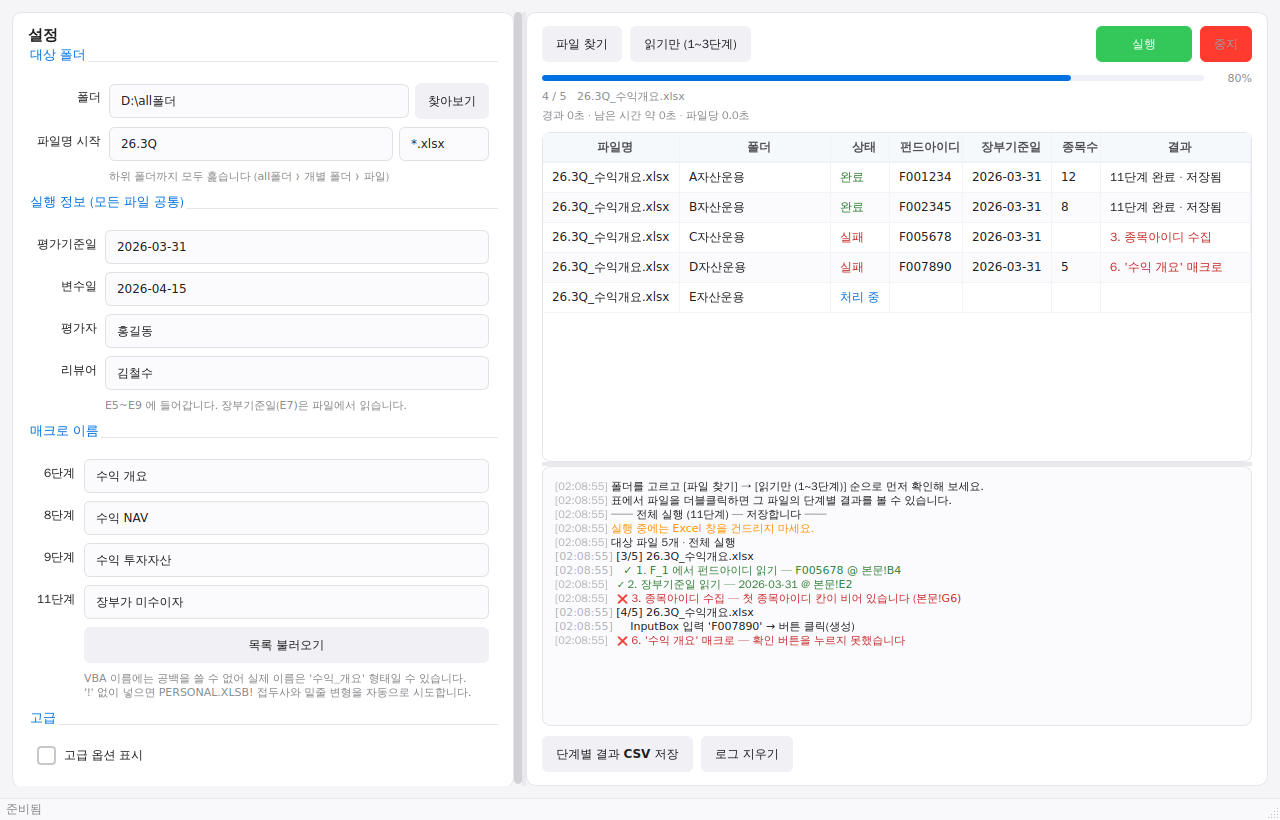
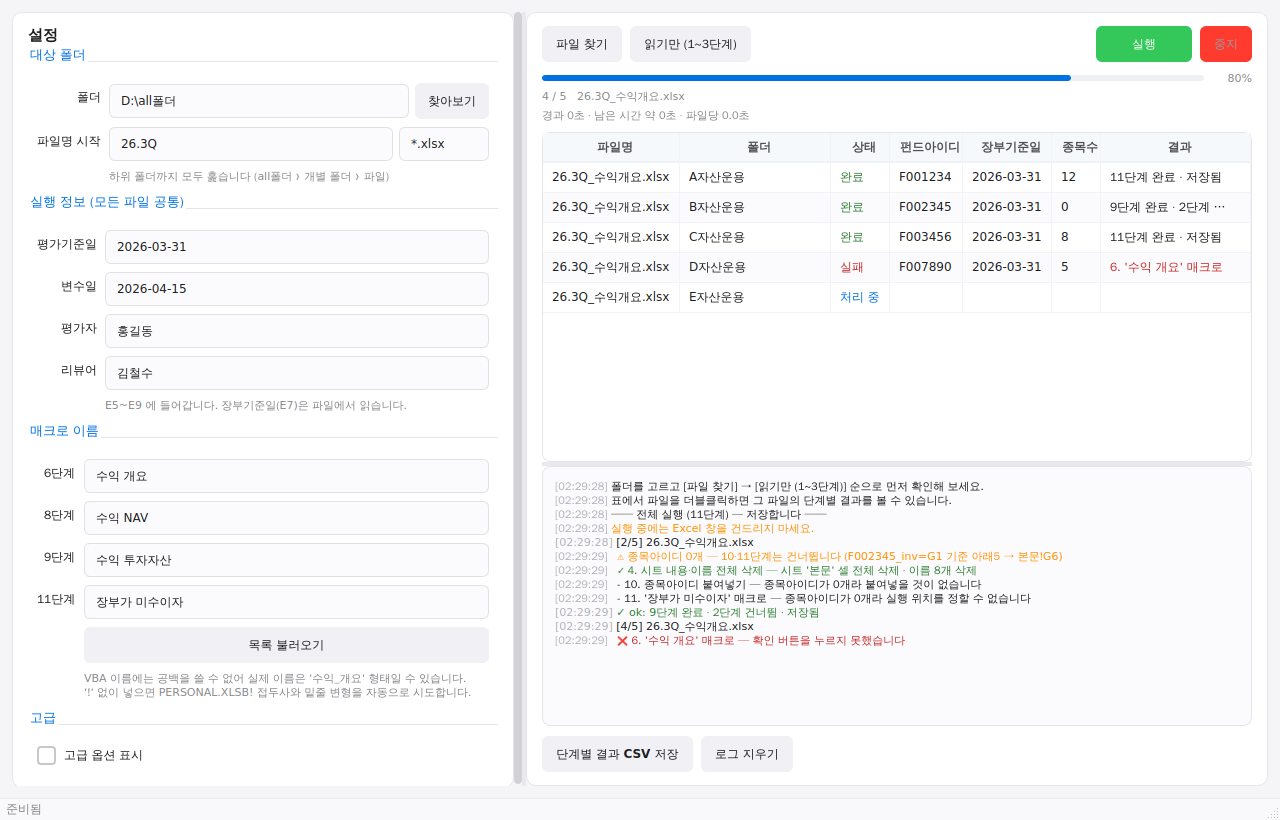
Correct step 4 deletion mode and handle funds with no holdings
사용자 확인에 따라 두 가지 동작을 수정했습니다.

4단계 시트 비우기
- Cells.Clear() → Cells.Delete(xlShiftUp) 로 변경.
  Ctrl+A > 마우스 오른쪽 > 삭제 와 동일하게 셀 자체를 없애므로
  병합·조건부서식·유효성검사까지 정리된다.
- 값과 서식만 지우는 기존 방식이 필요할 때를 위해 clear_mode 설정을
  남기고 고급 화면에서 고를 수 있게 했다.

종목아이디가 0개인 펀드
- 3단계 실패로 막던 것을 정상 처리로 바꿨다. 0개로 기록하고
  10(붙여넣기)·11(장부가 미수이자)단계만 건너뛴 뒤 나머지는 그대로
  진행해 저장한다. 수익 개요·NAV·투자자산 보고서는 생성된다.
- 이를 위해 StepSkip 을 추가했다. StepError 와 달리 이후 단계를
  중단시키지 않고 해당 단계만 skipped 로 기록한다.
  ALT_ITEMS 시트가 없는 경우도 같은 방식으로 정리했다.
- 결과 요약이 '9단계 완료 · 2단계 건너뜀 · 저장됨' 처럼 건너뛴 단계 수를
  함께 보여준다.

표 표시
- 종목수 열이 3단계를 통과한 파일에만 숫자를 넣도록 해 '0개'와
  '아직 못 읽음'을 구분한다. 결과 열에는 잘린 내용을 볼 수 있게 툴팁을 달았다.

Claude-Session: https://claude.ai/code/session_01E78XxqM2EBbeWrSFbjGD1Q

diff --git a/Excel_Macro_Bot/fund_pipeline.py b/Excel_Macro_Bot/fund_pipeline.py
@@ -37,6 +37,7 @@ else:
 
 XL_DOWN = -4121
 XL_SHEET_VISIBLE = -1
+XL_SHIFT_UP = -4162
 
 #: 이 행 아래로는 데이터가 아니라 빈 시트로 본다 (End(xlDown) 폭주 방지)
 MAX_DATA_ROW = 1_000_000
@@ -46,7 +47,15 @@ READONLY_STEPS = 3
 
 
 class StepError(Exception):
-    """단계 실패. 메시지가 그대로 사용자에게 보고된다."""
+    """단계 실패. 메시지가 그대로 사용자에게 보고되고 이후 단계는 중단된다."""
+
+
+class StepSkip(Exception):
+    """할 일이 없어 건너뛴다. 실패가 아니므로 다음 단계로 계속 진행한다.
+
+    예) 종목아이디가 0개인 펀드 → 붙여넣기(10)와 미수이자(11)는 건너뛰지만
+        수익 개요·NAV·투자자산 보고서는 그대로 만들고 저장한다.
+    """
 
 
 @dataclass
@@ -77,6 +86,9 @@ class PipelineConfig:
     inv_first_row_offset: int = 5               # _inv 아래 5번째가 첫 종목
 
     alt_sheet: str = "ALT_ITEMS"
+    #: delete = Ctrl+A → 우클릭 → 삭제 (셀 자체를 삭제)
+    #: clear  = 내용과 서식만 지우고 셀은 그대로 둠
+    clear_mode: str = "delete"
 
     overview_cell: str = "B2"
     header_cell: str = "E5"                     # E5:E9 로 5칸 사용
@@ -118,6 +130,11 @@ class FileResult:
     steps: List[StepResult] = field(default_factory=list)
 
     @property
+    def items_counted(self) -> bool:
+        """3단계까지 갔는지. 0개와 '아직 못 읽음'을 구분하려고 쓴다."""
+        return any(s.number == 3 and s.status == "ok" for s in self.steps)
+
+    @property
     def failed_step(self) -> str:
         for step in self.steps:
             if step.status == "failed":
@@ -130,7 +147,12 @@ class FileResult:
             if step.status == "failed":
                 return f"[{step.label}] {step.detail}"
         done = sum(1 for s in self.steps if s.status == "ok")
-        return f"{done}단계 완료" + (" · 저장됨" if self.saved else " · 저장 안 함")
+        skipped = sum(1 for s in self.steps if s.status == "skipped")
+        parts = [f"{done}단계 완료"]
+        if skipped:
+            parts.append(f"{skipped}단계 건너뜀")
+        parts.append("저장됨" if self.saved else "저장 안 함")
+        return " · ".join(parts)
 
 
 # ── 셀 값 도우미 ────────────────────────────────────
@@ -283,6 +305,10 @@ class WorkbookPipeline:
                 elapsed = time.monotonic() - started
                 self.result.steps.append(StepResult(number, name, "ok", detail, elapsed))
                 self.log.debug(f"✓ {number}. {name}" + (f" — {detail}" if detail else ""), indent=1)
+            except StepSkip as exc:
+                elapsed = time.monotonic() - started
+                self.result.steps.append(StepResult(number, name, "skipped", str(exc), elapsed))
+                self.log(f"- {number}. {name} — {exc}", indent=1)
             except StepError as exc:
                 elapsed = time.monotonic() - started
                 self.result.steps.append(StepResult(number, name, "failed", str(exc), elapsed))
@@ -380,12 +406,15 @@ class WorkbookPipeline:
         sheet = anchor.Worksheet
         first = anchor.Offset(self.cfg.inv_first_row_offset, 0)
 
+        where = f"{target}={address(anchor)} 기준 아래{self.cfg.inv_first_row_offset} " \
+                f"→ {sheet.Name}!{address(first)}"
+
+        # 종목이 하나도 없는 펀드도 있다. 실패가 아니라 0개로 보고,
+        # 붙여넣기(10)와 미수이자(11)만 건너뛴다.
         if is_blank(first):
-            raise StepError(
-                f"첫 종목아이디 칸이 비어 있습니다 "
-                f"({target}={address(anchor)} 기준 아래{self.cfg.inv_first_row_offset} "
-                f"→ {sheet.Name}!{address(first)})"
-            )
+            self.items = []
+            self.log(f"⚠ 종목아이디 0개 — 10·11단계는 건너뜁니다 ({where})", indent=1)
+            return f"0개 ({where} 비어 있음)"
 
         # Ctrl+↓ 와 같은 동작. 바로 아래가 비어 있으면 항목이 하나뿐이다.
         if is_blank(first.Offset(1, 0)):
@@ -410,7 +439,14 @@ class WorkbookPipeline:
 
     # ── 4~5 단계: 정리 ───────────────────────────
     def step_clear(self) -> str:
-        self.sheet.Cells.Clear()
+        if self.cfg.clear_mode == "clear":
+            self.sheet.Cells.Clear()
+            how = "내용·서식 지움"
+        else:
+            # Ctrl+A → 마우스 오른쪽 → 삭제 와 같은 동작.
+            # Clear 와 달리 셀 자체를 없애므로 병합·조건부서식·유효성검사까지 사라진다.
+            self.sheet.Cells.Delete(XL_SHIFT_UP)
+            how = "셀 전체 삭제"
 
         deleted, kept = 0, []
         for item in list(self.book.Names):
@@ -424,7 +460,7 @@ class WorkbookPipeline:
             except com_error:
                 kept.append(label)      # Print_Area 같은 내장 이름은 지워지지 않을 수 있다
 
-        detail = f"시트 '{self.sheet.Name}' 비움 · 이름 {deleted}개 삭제"
+        detail = f"시트 '{self.sheet.Name}' {how} · 이름 {deleted}개 삭제"
         if kept:
             detail += f" (삭제 안 됨 {len(kept)}개: {', '.join(kept[:3])})"
         return detail
@@ -442,7 +478,7 @@ class WorkbookPipeline:
             finally:
                 self.xl.DisplayAlerts = True
             return f"'{self.cfg.alt_sheet}' 삭제"
-        return f"'{self.cfg.alt_sheet}' 시트가 없어 건너뜀"
+        raise StepSkip(f"'{self.cfg.alt_sheet}' 시트가 없습니다")
 
     # ── 6~11 단계: 생성 ──────────────────────────
     def step_overview(self) -> str:
@@ -472,6 +508,9 @@ class WorkbookPipeline:
         return self._run_macro(self.cfg.macro_inv, self.cfg.inv_cell)
 
     def step_paste_items(self) -> str:
+        if not self.items:
+            raise StepSkip("종목아이디가 0개라 붙여넣을 것이 없습니다")
+
         start = self.sheet.Range(self.cfg.items_cell)
         count = len(self.items)
         dest = self.sheet.Range(start, start.Offset(count - 1, 0))
@@ -483,6 +522,12 @@ class WorkbookPipeline:
         return f"{count}개 → {address(dest)}"
 
     def step_interest(self) -> str:
+        if not self.items:
+            raise StepSkip(
+                "종목아이디가 0개라 실행 위치(마지막 종목 아래 "
+                f"{self.cfg.interest_row_offset}칸)를 정할 수 없습니다"
+            )
+
         start = self.sheet.Range(self.cfg.items_cell)
         last = start.Offset(len(self.items) - 1, 0)
         target = last.Offset(self.cfg.interest_row_offset, 0)

diff --git a/Excel_Macro_Bot/gui/window.py b/Excel_Macro_Bot/gui/window.py
@@ -258,6 +258,15 @@ class MainWindow(QMainWindow):
         self.alt_sheet.setObjectName("alt_sheet")
         form.addRow("삭제할 시트", self.alt_sheet)
 
+        self.clear_mode = QComboBox()
+        self.clear_mode.setObjectName("clear_mode")
+        self.clear_mode.addItems(["셀 전체 삭제 (Ctrl+A → 삭제)", "내용·서식만 지우기"])
+        self.clear_mode.setToolTip(
+            "셀 전체 삭제는 병합·조건부서식·유효성검사까지 없앱니다. "
+            "내용·서식만 지우기는 셀을 그대로 두고 값과 서식만 비웁니다."
+        )
+        form.addRow("4단계 방식", self.clear_mode)
+
         # 위치 — 쓰기
         self.overview_cell = self._cell("overview_cell", default.overview_cell)
         self.header_cell = self._cell("header_cell", default.header_cell)
@@ -637,11 +646,13 @@ class MainWindow(QMainWindow):
             self._set_status(row, result.status)
             summary = result.failed_step or result.detail
             for column, text in ((3, result.fund_id), (4, result.book_date),
-                                 (5, str(result.item_count) if result.item_count else ""),
+                                 (5, str(result.item_count) if result.items_counted else ""),
                                  (6, summary)):
                 item = QTableWidgetItem(text)
-                if column == 6 and result.status == "failed":
-                    item.setForeground(QColor(STATUS_COLORS["failed"]))
+                if column == 6:
+                    item.setToolTip(result.detail)      # 잘린 내용을 마우스로 확인
+                    if result.status == "failed":
+                        item.setForeground(QColor(STATUS_COLORS["failed"]))
                 self.table.setItem(row, column, item)
         self.progress.advance(index, total, result.path.name)
 
@@ -732,6 +743,7 @@ class MainWindow(QMainWindow):
             inv_suffix=self.inv_suffix.text().strip() or "_inv",
             inv_first_row_offset=self.inv_first.value(),
             alt_sheet=self.alt_sheet.text().strip(),
+            clear_mode="delete" if self.clear_mode.currentIndex() == 0 else "clear",
             overview_cell=self.overview_cell.text().strip() or "B2",
             header_cell=self.header_cell.text().strip() or "E5",
             nav_cell=self.nav_cell.text().strip() or "B16",
